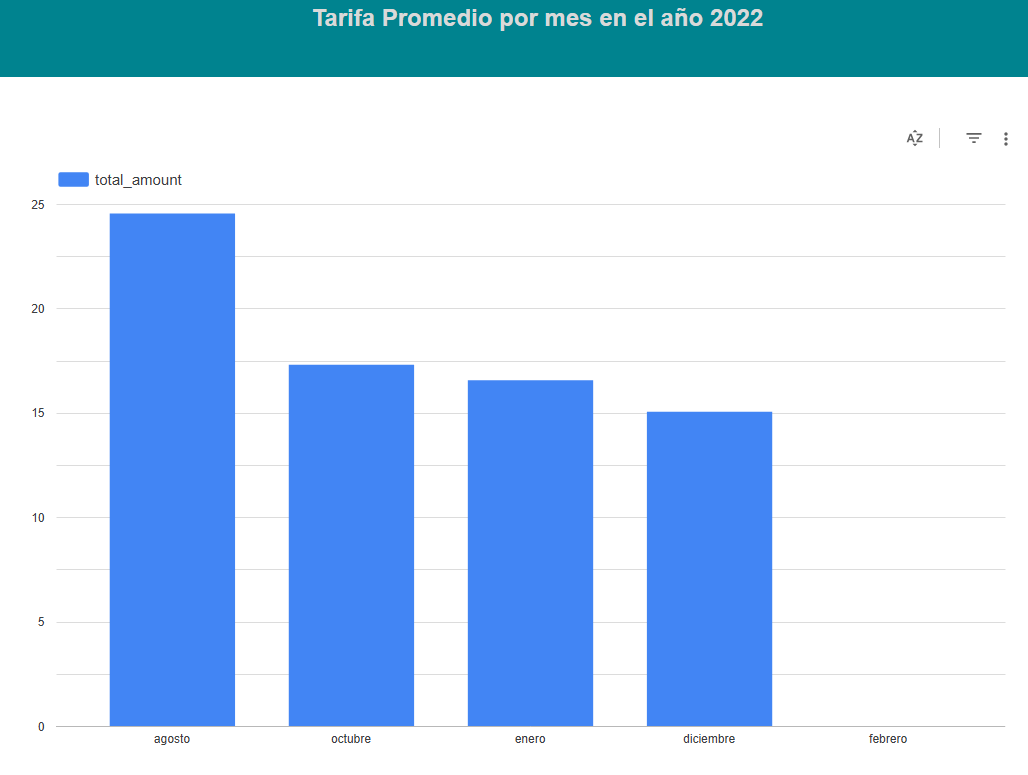
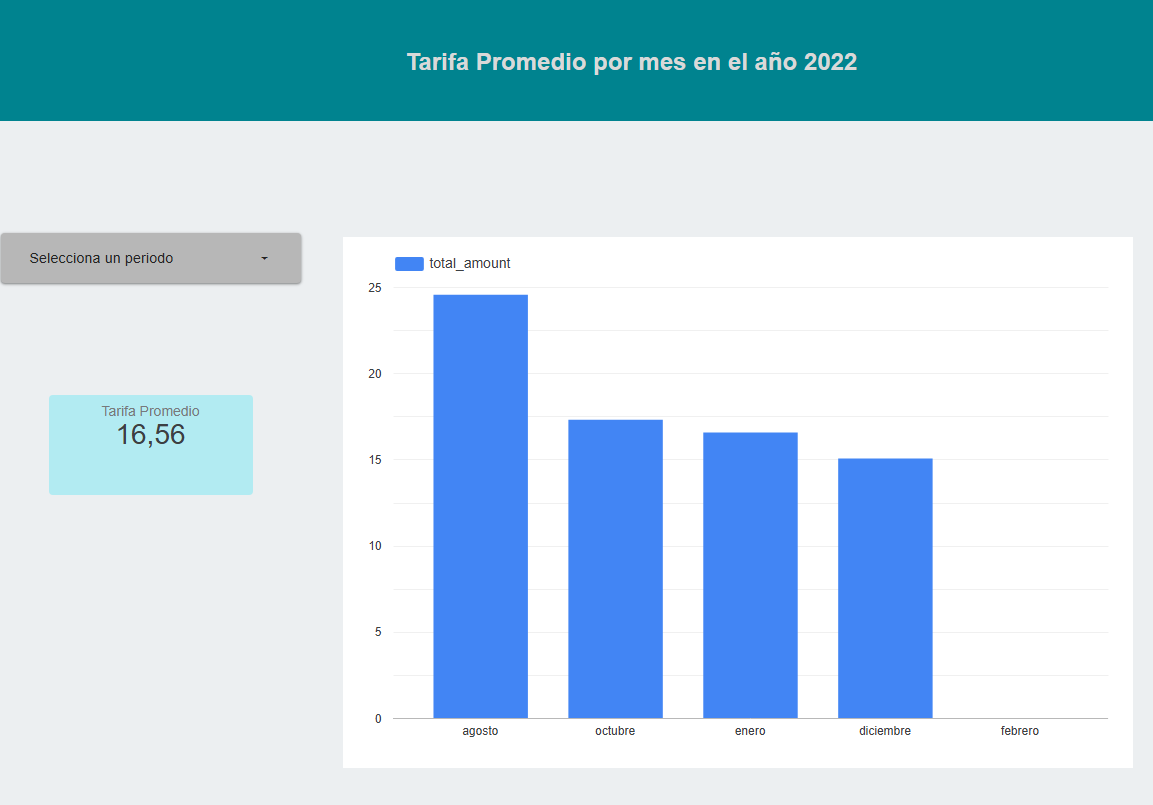
cambios en readme actualizando capturas looker

diff --git a/Fase_1/README.md b/Fase_1/README.md
@@ -573,29 +573,28 @@ Como parte de la Fase 1 del proyecto, se generaron tres visualizaciones en Looke
 
 1. Viajes por mes en 2022
 - Tipo de gráfico: Serie temporal (línea).
-- Dimensión: Mes de pickup_datetime.
-- Métrica: Conteo de registros (número de viajes).
-- Hallazgo: Se observa variación en la demanda de taxis a lo largo del año, con meses de mayor volumen y otros con caídas. Esto refleja - - patrones estacionales que pueden relacionarse con factores externos (clima, turismo, festividades).
+- Dimensión: Mes (pickup_datetime).
+- Métrica: Conteo de registros (número total de viajes).
+- Hallazgo: Se observa un volumen mayor de viajes en enero, con caídas pronunciadas en meses intermedios y ligeros repuntes en octubre y noviembre. Esto evidencia la existencia de patrones estacionales en la demanda de taxis, posiblemente vinculados a factores externos como vacaciones, clima o turismo.
 
 ![alt text](assets/image.png)
 
 2. Distribución de métodos de pago
-- Tipo de gráfico: Circular (dona).
+- Tipo de gráfico: Circular (pie chart).
 - Dimensión: payment_type.
 - Métrica: Conteo de registros (número de viajes).
-- Hallazgo: El 71% de los viajes se pagó con tarjeta, mientras que el 23% se realizó en efectivo y el resto con otros métodos. Esto muestra una clara preferencia por medios electrónicos en el servicio de taxi durante 2022.
+- Hallazgo: El 71% de los viajes fueron pagados con tarjeta, mientras que el 23% se realizaron en efectivo y el resto con otros métodos minoritarios. Esto muestra una fuerte preferencia por los medios de pago electrónicos, consolidando una tendencia hacia la digitalización del transporte.
 
 ![alt text](assets/image-1.png)
 
 3. Tarifa promedio por mes en 2022
 
 - Tipo de gráfico: Barras verticales.
-- Dimensión: Mes de pickup_datetime.
+- Dimensión: Mes (pickup_datetime).
 - Métrica: Promedio de total_amount.
-- Hallazgo: La tarifa promedio mensual se mantiene en un rango entre $15 y $25 USD. Se identifican picos en agosto y diciembre, lo cual puede asociarse a temporadas de alta demanda, como vacaciones de verano y fin de año.
+- Hallazgo: La tarifa promedio se encuentra entre 15 y 25 USD. Se detectan picos en agosto y diciembre, que coinciden con temporadas de alta demanda como vacaciones de verano y festividades de fin de año.
 
 ![alt text](assets/image-2.png)
-
 
 ## Conclusiones
 
